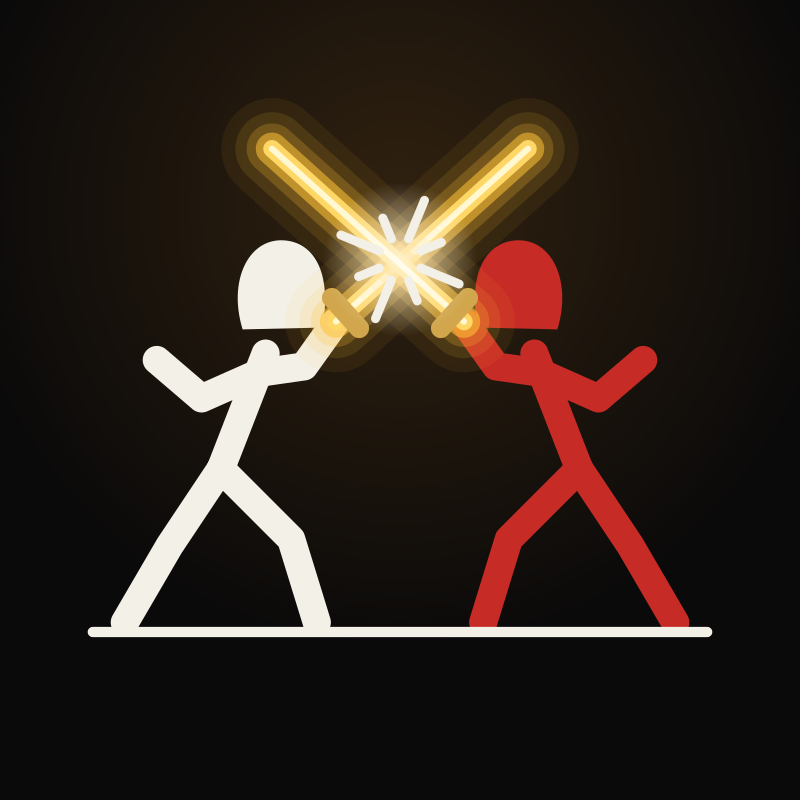
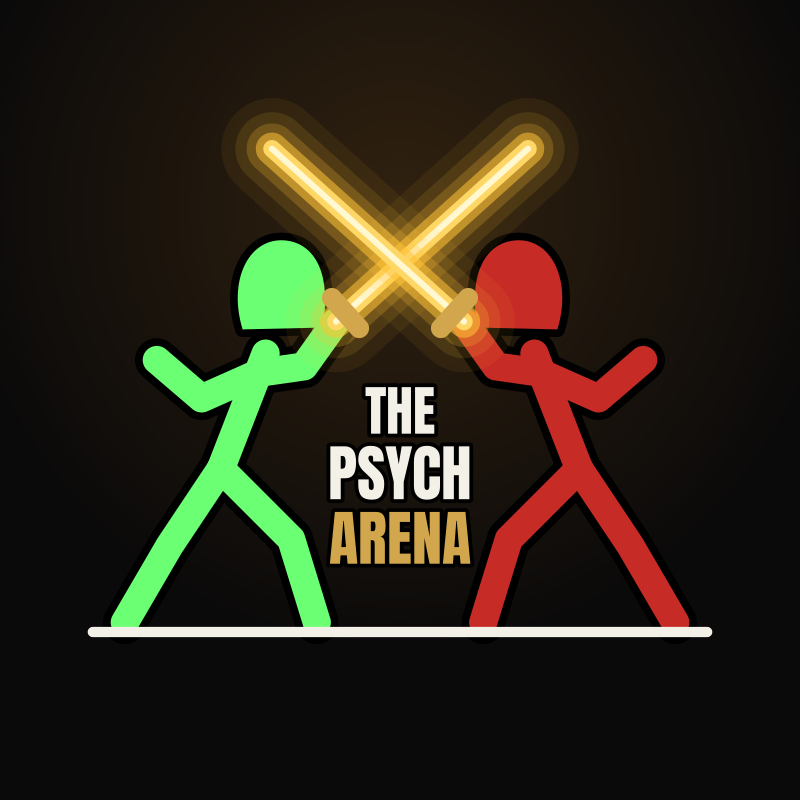
Stickman: perfil D verde vs vermelho com contorno, nome em 3 linhas, sem faísca
Claude-Session: https://claude.ai/code/session_01BxdGqyWTbCxjwhaDPJNNdc

Changed region(s): [[0.125, 0.2188, 0.6875, 0.7812], [0.5625, 0.3125, 0.7812, 0.5625], [0.7812, 0.4062, 0.8125, 0.4375]]

diff --git a/stickman/branding/make_branding.py b/stickman/branding/make_branding.py
@@ -219,27 +219,41 @@ def profile_c(ctx, S=800):
     hooded(ctx, x0 + wp + gap + wa * 0.52, base - size * 0.80, S * 0.17, S * 0.016, pose="win")
 
 
-def hood_head(ctx, cx, cy, hr, col):
-    """Cabeça com capuz (virada para a direita)."""
+def hood_head(ctx, cx, cy, hr, col, outline=0.0):
+    """Cabeça com capuz (virada para a direita). outline > 0: só o contorno preto dessa espessura."""
     ctx.save()
     ctx.translate(cx, cy)
-    rgb(ctx, col)
     ctx.new_path()
     ctx.move_to(-hr * 1.05, hr * 0.9)
     ctx.curve_to(-hr * 1.45, -hr * 0.4, -hr * 0.9, -hr * 1.55, hr * 0.05, -hr * 1.5)
     ctx.curve_to(hr * 0.95, -hr * 1.45, hr * 1.35, -hr * 0.5, hr * 1.1, hr * 0.85)
     ctx.close_path()
-    ctx.fill()
+    if outline:
+        ctx.set_source_rgb(0, 0, 0)
+        ctx.set_line_width(outline * 2)
+        ctx.stroke_preserve()
+        ctx.fill()
+    else:
+        rgb(ctx, col)
+        ctx.fill()
     ctx.restore()
 
 
-def fencer(ctx, S, col, lw):
-    """Stickman de capuz em investida para a direita, espada erguida para o centro."""
+GREEN = (0.42, 1.0, 0.45)   # verde vivo claro
+
+
+def fencer(ctx, S, col, lw, outline=0.0):
+    """Stickman de capuz em investida para a direita, espada erguida para o centro.
+    outline > 0 desenha só o contorno preto (chamar antes, com a mesma geometria)."""
     P = lambda x, y: (x * S, y * S)
     ctx.set_line_cap(cairo.LINE_CAP_ROUND)
     ctx.set_line_join(cairo.LINE_JOIN_ROUND)
-    ctx.set_line_width(lw)
-    rgb(ctx, col)
+    if outline:
+        ctx.set_source_rgb(0, 0, 0)
+        ctx.set_line_width(lw + outline * 2)
+    else:
+        rgb(ctx, col)
+        ctx.set_line_width(lw)
     hip, neck, sh = P(0.22, 0.57), P(0.29, 0.39), P(0.28, 0.42)
     for pts in ([neck, hip],
                 [hip, P(0.33, 0.68), P(0.37, 0.81)],      # perna da frente
@@ -250,7 +264,9 @@ def fencer(ctx, S, col, lw):
         for q in pts[1:]:
             ctx.line_to(*q)
         ctx.stroke()
-    hood_head(ctx, *P(0.315, 0.30), S * 0.058, col)
+    hood_head(ctx, *P(0.315, 0.30), S * 0.058, col, outline)
+    if outline:
+        return
     # espada: lâmina dourada néon (halo em camadas + núcleo claro) + guarda dourada
     hx, hy = P(0.40, 0.34)
     tx, ty = P(0.70, 0.07)
@@ -281,40 +297,61 @@ def fencer(ctx, S, col, lw):
     ctx.stroke()
 
 
+def stacked_title(ctx, S, top, bottom, lines):
+    """Nome em várias linhas, centrado em x = S/2, entre top e bottom. lines = [(texto, largura, cor)]."""
+    ctx.select_font_face(FONT)
+    items = []
+    for t, wfrac, col in lines:
+        ctx.set_font_size(100)
+        e = ctx.text_extents(t)
+        size = 100 * (wfrac * S) / e.width
+        ctx.set_font_size(size)
+        items.append((t, size, col, ctx.text_extents(t)))
+    gap = S * 0.018
+    total = sum(e.height for *_, e in items) + gap * (len(items) - 1)
+    y = top + ((bottom - top) - total) / 2
+    for t, size, col, e in items:
+        ctx.set_font_size(size)
+        x = S / 2 - e.width / 2 - e.x_bearing
+        ctx.move_to(x, y - e.y_bearing)
+        ctx.text_path(t)
+        ctx.set_source_rgb(0, 0, 0)
+        ctx.set_line_width(S * 0.012)
+        ctx.set_line_join(cairo.LINE_JOIN_ROUND)
+        ctx.stroke_preserve()
+        rgb(ctx, col)
+        ctx.fill()
+        y += e.height + gap
+
+
 def profile_d(ctx, S=800):
-    """Duelo de espadas: branco vs vermelho, lâminas douradas néon cruzadas com faísca branca."""
+    """Duelo de espadas: verde vs vermelho com contorno preto, lâminas douradas néon,
+    nome do canal em 3 linhas entre o choque das espadas e o chão."""
     bg(ctx, S, S, glow=(S / 2, S * 0.26), glow_r=S * 0.55, glow_col=(0.19, 0.13, 0.06))
     lw = S * 0.044
+    ol = S * 0.012
     k = 0.80                                   # encolher tudo para caber no círculo
     ctx.translate(S * (1 - k) / 2, S * (1 - k) / 2 + S * 0.03)
     ctx.scale(k, k)
-    ctx.save()
-    fencer(ctx, S, WHITE, lw)
-    ctx.restore()
-    ctx.save()
-    ctx.translate(S, 0)
-    ctx.scale(-1, 1)
-    fencer(ctx, S, RED_HI, lw)
-    ctx.restore()
-    # faísca no cruzamento das lâminas
-    cx, cy = S * 0.5, S * 0.243
-    g = cairo.RadialGradient(cx, cy, 0, cx, cy, S * 0.12)
-    g.add_color_stop_rgba(0, 1, 1, 1, 0.65)
-    g.add_color_stop_rgba(1, 1, 1, 1, 0)
-    ctx.set_source(g)
-    ctx.arc(cx, cy, S * 0.12, 0, 2 * math.pi)
-    ctx.fill()
-    rgb(ctx, WHITE)
-    ctx.set_line_cap(cairo.LINE_CAP_ROUND)
-    ctx.set_line_width(S * 0.014)
-    for i in range(8):
-        a = i * math.pi / 4 + math.pi / 8
-        r1, r2 = S * 0.035, S * (0.10 if i % 2 == 0 else 0.07)
-        ctx.move_to(cx + r1 * math.cos(a), cy + r1 * math.sin(a))
-        ctx.line_to(cx + r2 * math.cos(a), cy + r2 * math.sin(a))
-        ctx.stroke()
+
+    def both(outline):
+        ctx.save()
+        fencer(ctx, S, GREEN, lw, outline)
+        ctx.restore()
+        ctx.save()
+        ctx.translate(S, 0)
+        ctx.scale(-1, 1)
+        fencer(ctx, S, RED_HI, lw, outline)
+        ctx.restore()
+
+    both(ol)
+    both(0)
+    # nome do canal: do choque das espadas até ao chão
+    stacked_title(ctx, S, S * 0.36, S * 0.80,
+                  [("THE", 0.11, WHITE), ("PSYCH", 0.22, WHITE), ("ARENA", 0.22, GOLD)])
     # chão branco
     rgb(ctx, WHITE)
+    ctx.set_line_cap(cairo.LINE_CAP_ROUND)
     ctx.set_line_width(S * 0.016)
     ctx.move_to(S * 0.02, S * 0.825)
     ctx.line_to(S * 0.98, S * 0.825)
